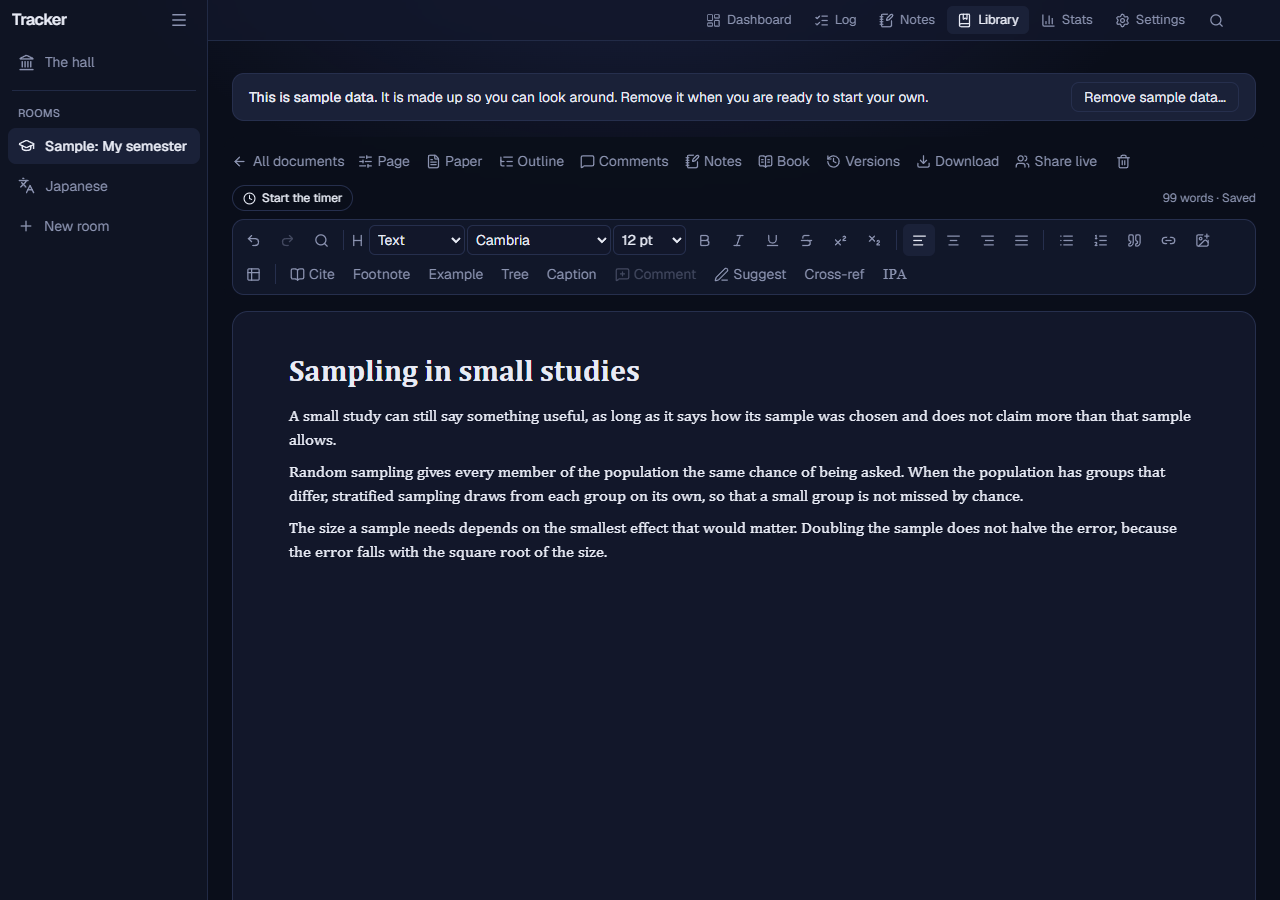
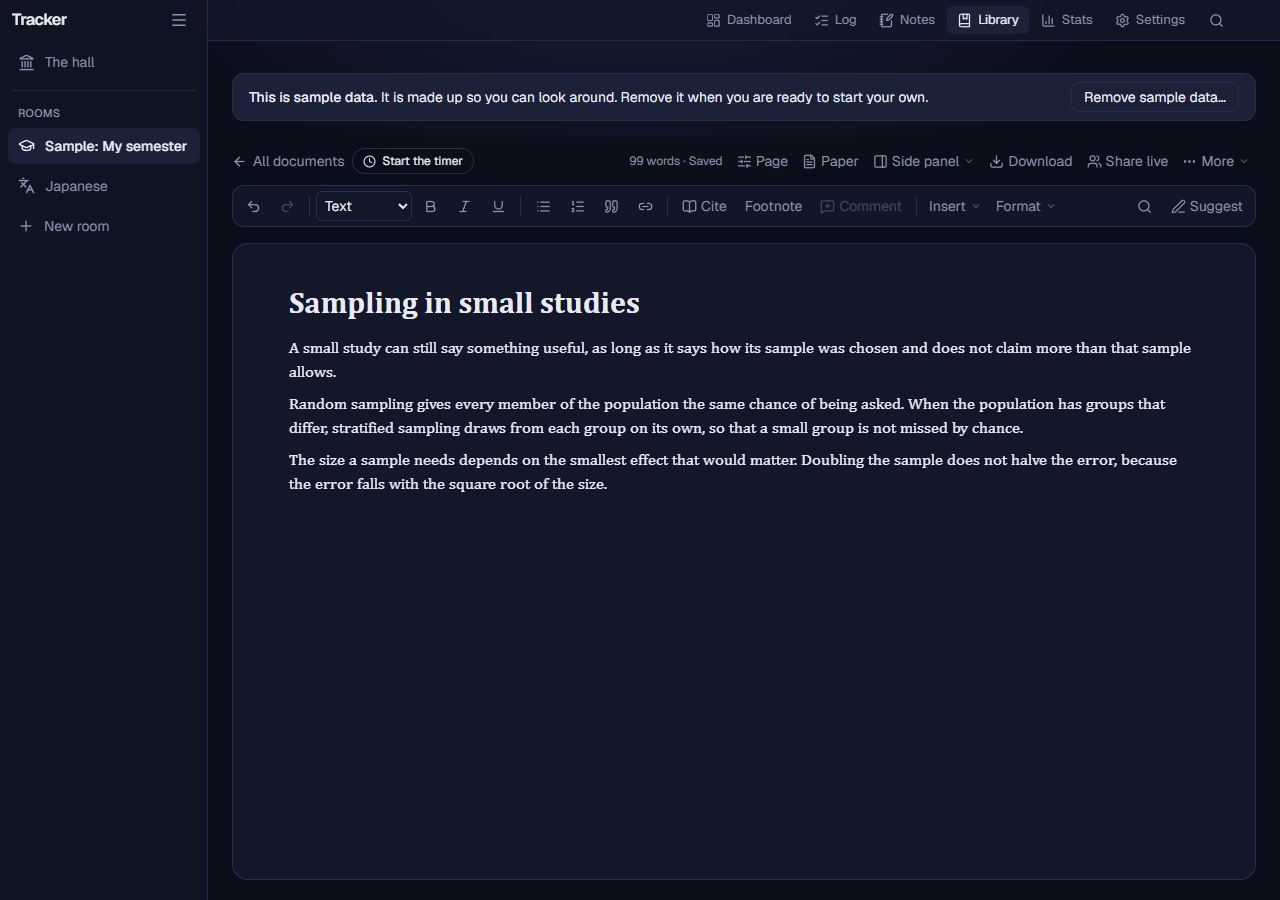
Update the site

diff --git a/docs/manual.html b/docs/manual.html
@@ -23,7 +23,7 @@
   </header>
 
   <h1>The full user manual</h1>
-  <p class="lead">Everything Tracker does, part by part. New here? Start with <a href="guide.html">Getting started in ten minutes</a>. This manual describes version 0.41.0; later versions may add things, and App settings, About lists what changed.</p>
+  <p class="lead">Everything Tracker does, part by part. New here? Start with <a href="guide.html">Getting started in ten minutes</a>. This manual describes version 0.42.0; later versions may add things, and App settings, About lists what changed.</p>
 
   <div class="layout">
     <nav class="toc" aria-label="Contents">
@@ -116,7 +116,7 @@
           <li><strong>I already have a copy of my data.</strong> Opens the restore and import options, for a copy or export from another computer (see <a href="#data">Backups, exports, moving</a>).</li>
         </ul>
         <p>Your first room (your own or the sample) opens with a <strong>short tour</strong>: four cards on rooms and the timer, notes and the graph, books and the reader, and Writing. <em>Next</em> and <em>Back</em> go through it, <em>Skip</em> or <kbd>Esc</kbd> closes it, and it is not shown again; App settings, About has <em>take the short tour again</em>.</p>
-        <p><strong>More rooms:</strong> press <strong>New room</strong> at the bottom of the sidebar. <strong>Changing one:</strong> its own Settings, <em>This room</em>, lets you change its <strong>symbol</strong> (an icon chosen from a set, which also shows in the sidebar and on the hall&rsquo;s Home) and name, what each part is called, its daily goal, and its order in the sidebar. <strong>Deleting one:</strong> <em>Delete this room</em> in the same place. Tracker shows what will be removed (sessions, courses, activities, notes and books), and if the room holds any sessions, notes or books it asks you to type the room&rsquo;s name before <em>Delete permanently</em> works. A copy of your data is saved first (&ldquo;Before a delete&rdquo; in the list of saved copies).</p>
+        <p><strong>More rooms:</strong> press <strong>New room</strong> at the bottom of the sidebar. <strong>Changing one:</strong> its own Settings, <em>This room</em>, lets you change its <strong>symbol</strong> (an icon chosen from a set, which also shows in the sidebar and on the hall&rsquo;s Home) and name, what each part is called, its daily goal, and its order in the sidebar. <strong>Closing one</strong> you are done with (last term&rsquo;s): <em>Close this room</em> in the same place. It leaves the sidebar&rsquo;s rooms for a <em>Closed rooms</em> fold under them and has no door on the hall&rsquo;s Home; nothing in it is deleted, its time stays in Stats and your streak, and it is not offered as a place to move things to. Tick <em>Put its books and documents on a shelf of the hall</em> to find them from the hall too, on a shelf named after the room. A closed room says so at the top of its pages; <em>Open it again</em> in its settings brings it back. <strong>Deleting one:</strong> <em>Delete this room</em> in the same place. Tracker shows what will be removed (sessions, courses, activities, notes and books), and if the room holds any sessions, notes or books it asks you to type the room&rsquo;s name before <em>Delete permanently</em> works. A copy of your data is saved first (&ldquo;Before a delete&rdquo; in the list of saved copies).</p>
 
         <h2 id="courses">4. Courses and activities</h2>
         <p>Both are managed in the room&rsquo;s own <strong>Settings</strong>, in the lists at the top. You can add, rename, recolour and delete them, and drag the grip (or focus it and use the arrow keys) to put them in the order you like.</p>
@@ -185,7 +185,7 @@
         <h2 id="hall">9. The hall</h2>
         <p>Think of Tracker as a library. <strong>The hall</strong> is its main hall, the first item in the sidebar, where you study in general: books, writing and notes of any kind, that belong to no course. The <strong>rooms</strong> under it are study rooms, each for one thing you study. The hall has these pages along the top:</p>
         <ul>
-          <li><strong>Home</strong>, where you start. <em>Continue</em> lists the books you are reading and the documents you wrote in last, in the hall or in any room, each saying where it is; one click opens it where you left off. <em>Today</em> says how many flashcards are due in each room and which deadlines are coming in the next two weeks. <em>Rooms</em> has a door for each room, with its time today and this week, its cards due and its nearest deadline, and <em>New room</em>. <em>In the hall</em> counts the hall&rsquo;s own books, writing and notes.</li>
+          <li><strong>Home</strong>, where you start. <em>On the desk</em> shows the books you are reading as covers, with a line of how far you are; one click opens a book where you left off. Beside it are the documents you wrote in last, each saying where it is. <em>Today</em> lists the flashcards due in each room, every deadline of the next two weeks across your rooms (a course&rsquo;s, or a document&rsquo;s due day: each opens the course or the document&rsquo;s page) and your reading plans (&ldquo;6 pages a day to finish by 18 Nov&rdquo;), or says it is a quiet day when there is none. <em>Rooms</em> has a door for each room, with its time today and this week, its cards due and its nearest deadline (and <em>Timer on</em> while its timer runs), and <em>New room</em>; a line under them links to your closed rooms. <em>In the hall</em> counts the hall&rsquo;s own books, writing and notes.</li>
           <li id="hall-books"><strong>Books</strong>, the hall&rsquo;s shelves: the books you keep in the hall, and every room&rsquo;s books under <em>In rooms</em> (see <a href="#archive">The hall&rsquo;s books</a>).</li>
           <li><strong>Writing</strong>: documents that belong to no room (free writing, an essay, a journal, a draft that has no course yet), in the same editor as a room&rsquo;s (see <a href="#writing">Writing</a>), citing any book on the hall&rsquo;s shelves (the rooms&rsquo; too), and under them, <em>In rooms</em>, every room&rsquo;s documents, room by room, so all your writing can be found in one place.</li>
           <li><strong>Notes</strong>: notes that belong to no room, with cards, the graph and links between them as in a room (a note in the hall and a note in a room do not link to each other). The hall has no flashcards: those are a room&rsquo;s.</li>
@@ -287,7 +287,7 @@
 
         <h2 id="library">11. The Library: books</h2>
         <p>Each room&rsquo;s <strong>Library</strong> tab has two parts: <strong>Books</strong>, described here, and <a href="#writing">Writing</a>. The hall&rsquo;s <strong>Books</strong> has every book of every room, and books you keep in the hall (see <a href="#archive">The hall&rsquo;s books</a> below).</p>
-        <figure class="shot"><a class="zoom" href="img/writing.png"><img src="img/writing.png" width="1280" height="900" alt="A document in Writing: its title Sampling in small studies and three paragraphs, with the toolbar above for headings, fonts, lists, quotations, Cite, Footnote, Example and IPA." loading="lazy"></a><figcaption>A document in Writing.</figcaption></figure>
+        <figure class="shot"><a class="zoom" href="img/writing.png"><img src="img/writing.png" width="1280" height="900" alt="A document in Writing: its title Sampling in small studies and three paragraphs, with one row of buttons above it (Page, Paper, Side panel, Download, Share live, More) and one toolbar row (the text style, bold, italic, underline, lists, quotation, link, Cite, Footnote, Comment, Insert and Format)." loading="lazy"></a><figcaption>A document in Writing.</figcaption></figure>
         <figure class="shot"><a class="zoom" href="img/library.png"><img src="img/library.png" width="1280" height="900" alt="The Library as a shelf: the shelves and a smart shelf beside it, Continue reading at the top, then the books as covers grouped by status, each with its title, authors and course." loading="lazy"></a><figcaption>The Library.</figcaption></figure>
         <h3>Adding a text</h3>
         <p>Press <strong>Add</strong>. In the box, type:</p>
@@ -410,16 +410,19 @@
           <li><strong>Shelves</strong>: the same shelves as the Library&rsquo;s, and smart shelves for documents (see <a href="#folders">Shelves</a>). Drag a document onto a shelf, or put it on one on its page. The list shows each document&rsquo;s words, when it last changed, its course, its due day and its shelves; the pencil beside its title opens it in the editor.</li>
           <li id="document-page"><strong>A document&rsquo;s own page</strong> (click its title): how many words it has and a line of how they grew (from its kept versions), its due day, the books it cites (each opening its own page), the time written on it and its sessions, its shelves and its versions, with <em>Open in the editor</em>, the move button and <em>Put in the bin</em>.</li>
           <li><strong>Start the timer</strong> in a document times its writing: it starts with the document&rsquo;s course and a writing activity, has <em>Started earlier?</em>, and the time spent shows next to it (&ldquo;3h 20m writing&rdquo;). The sessions are in the Log, with a link back to the document.</li>
-          <li>The bin button in a document moves it to the <strong>Bin</strong> (it asks first). In the Bin, <strong>Take out</strong> brings it back and <strong>Delete for good</strong> deletes it and its earlier versions, after asking.</li>
+          <li><em>More</em>, <em>Move to the bin</em> in a document moves it to the <strong>Bin</strong> (it asks first). In the Bin, <strong>Take out</strong> brings it back and <strong>Delete for good</strong> deletes it and its earlier versions, after asking.</li>
         </ul>
         <h3>Writing</h3>
         <ul>
-          <li>The buttons above the document (<em>Page</em>, <em>Paper</em>, <em>Outline</em>, <em>Comments</em>, <em>Notes</em>, <em>Book</em>, <em>Versions</em>, <em>Download</em>) and the toolbar stay on screen together while the document scrolls (on a phone they scroll away with it).</li>
-          <li>The toolbar: undo and redo, the text style (<em>Text</em>; <em>Title</em> and <em>Subtitle</em>, large words for the head of a paper, a chapter or a title page that are not headings, so they are not numbered and not in the outline or the table of contents, and Enter after one goes on in ordinary text; or <em>Heading 1</em> to <em>6</em>), the font and text size of the selected words (the first choice is the document's own), bold, italic, underline, strikethrough, superscript and subscript, lining up (left, centre, right, or justified with both edges straight), bulleted and numbered lists, quotation, link, picture and table (with buttons to add and remove rows and columns while you are in it).</li>
+          <li>Above the document is one row: <em>All documents</em>, the timer, the word count, and <em>Page</em>, <em>Paper</em>, <em>Side panel</em> (<em>Outline</em>, <em>Comments</em>, <em>Notes</em>, <em>Book</em>, <em>Versions</em>, one at a time beside the document), <em>Download</em>, <em>Share live</em> and <em>More</em> (<em>Focus</em> and <em>Move to the bin</em>). It stays on screen with the toolbar while the document scrolls; on a phone only the toolbar does, as one row that scrolls sideways, and its menus open at the foot of the screen.</li>
+          <li>The toolbar has what is used all the time: undo and redo, the text style (<em>Text</em>; <em>Title</em> and <em>Subtitle</em>, large words for the head of a paper, a chapter or a title page that are not headings, so they are not numbered and not in the outline or the table of contents, and Enter after one goes on in ordinary text; or <em>Heading 1</em> to <em>6</em>), bold, italic, underline, bulleted and numbered lists, quotation, link, <em>Cite</em>, <em>Footnote</em> and <em>Comment</em>, then <em>Find</em> and <em>Suggest</em>. <strong>Insert</strong> has a picture, a table (with buttons to add and remove rows and columns while you are in it), a page break, a table of contents, table and figure captions and their lists, and <em>Cross-ref</em>; and, when the document has <em>Tools for linguistics</em> on, <em>Example</em>, <em>Tree</em> and <em>IPA</em>. <strong>Format</strong> has the font and text size of the selected words (the first choice is the document&rsquo;s own), strikethrough, superscript and subscript, and lining up (left, centre, right, or justified with both edges straight).</li>
+          <li>Select words and a small bar comes up over them: bold, italic, underline, a link, a comment and <em>Cite</em>.</li>
+          <li>Type <kbd>/</kbd> at the start of a line (or after a space) for a menu of what can go in: a heading, a list, a quotation, a citation, a footnote, a table, a picture, a page break, a table of contents, a caption, a cross-reference, an example or a tree. Type a few letters to narrow it (<kbd>/he</kbd> for the headings), the arrows to choose, <kbd>Enter</kbd> to put it in; <kbd>Esc</kbd> or a space leaves the <kbd>/</kbd> as it is.</li>
+          <li><strong>Focus</strong> (under <em>More</em>, or <kbd>Ctrl</kbd>+<kbd>Shift</kbd>+<kbd>F</kbd>) leaves only the document: the sidebar, the top bar and the notes above the page are hidden until you press <kbd>Esc</kbd> or <em>Leave focus</em>.</li>
           <li><kbd>Ctrl</kbd>+<kbd>Enter</kbd> (<kbd>Cmd</kbd>+<kbd>Enter</kbd> on a Mac) puts a <strong>page break</strong> where the cursor is: what follows starts a new page in the paper view, the PDF and every download. It shows as a dashed line; select it and delete it like any block. The words on the line are also a choice of what the page numbers do from there: <em>numbers start again at 1</em> (the pages before it are then numbered i, ii, iii, as the title page and the contents of a thesis usually are, or 1, 2, 3 if you choose so under <em>Page</em>; a Word file brings its own choice), <em>numbers start again, none on this page</em>, or <em>no number on this page</em> (a chapter&rsquo;s first page). The table of contents counts a page without a number all the same. Word, OpenDocument and LaTeX files follow it.</li>
           <li><kbd>Tab</kbd> moves a paragraph&rsquo;s first line in (1.27 cm, as in Word), and the paragraphs you start after it with <kbd>Enter</kbd> are moved in too; <kbd>Shift</kbd>+<kbd>Tab</kbd>, or <kbd>Backspace</kbd> at the start of the paragraph, takes it out. In a list, <kbd>Tab</kbd> moves the item one level deeper; in a table, to the next cell. The PDF, Word and OpenDocument files keep it. Since <kbd>Tab</kbd> stays in the text, <kbd>Esc</kbd> leaves it for the toolbar.</li>
-          <li><strong>IPA</strong> opens the IPA symbols: consonants, vowels, length, stress and tone, and the diacritics (click a diacritic after the letter it goes on).</li>
-          <li><strong>Page</strong> sets the whole document out: its citation style and course, its font, text size, line spacing (single, 1.15, 1.5, double, or any number), the space after paragraphs, the page margins in centimetres, <em>Page numbers</em> (top or bottom, left, centre or right, and if you like none on the first page; and, when a page break starts the numbers again at 1, whether the pages before it are numbered i, ii, iii or 1, 2, 3), <em>Print the title above the text</em> (off for a paper with its own title page: the title is then only the document&rsquo;s name, written above the pages in the paper view and not on the pages, the PDF or the downloads), <em>A title page in the middle</em> (what comes before the first page break sits halfway down the first page), <em>Number the headings</em> (Heading 1 is 1., 2., a Heading 2 under it 1.1, 1.2, a Heading 3 1.1.1, down to Heading 6) and a <em>Word limit</em>: with one, the word count under the text reads &ldquo;412 / 500 words&rdquo;, turns amber near the limit and red past it (hover over it for how many are left or over). The PDF, Word and OpenDocument files follow them. A new document starts with the settings of the last one you wrote; an imported Word file has its own (its page numbers, whether its headings are numbered, its title page), never the last document&rsquo;s. A font that is not on this computer says so; Word or LibreOffice on another computer use their own in its place.</li>
+          <li><strong>IPA</strong> (under <em>Insert</em>) opens the IPA symbols: consonants, vowels, length, stress and tone, and the diacritics (click a diacritic after the letter it goes on).</li>
+          <li><strong>Page</strong> sets the whole document out: its citation style and course, its font, text size, line spacing (single, 1.15, 1.5, double, or any number), the space after paragraphs, the page margins in centimetres, <em>Page numbers</em> (top or bottom, left, centre or right, and if you like none on the first page; and, when a page break starts the numbers again at 1, whether the pages before it are numbered i, ii, iii or 1, 2, 3), <em>Print the title above the text</em> (off for a paper with its own title page: the title is then only the document&rsquo;s name, written above the pages in the paper view and not on the pages, the PDF or the downloads), <em>A title page in the middle</em> (what comes before the first page break sits halfway down the first page), <em>Number the headings</em> (Heading 1 is 1., 2., a Heading 2 under it 1.1, 1.2, a Heading 3 1.1.1, down to Heading 6; each chapter&rsquo;s sections count from 1 again, and a Heading 3 straight under a Heading 1 is 3.0.1, as in Word), <em>Tools for linguistics</em> (examples, trees and IPA in <em>Insert</em> and the <kbd>/</kbd> menu; off for a plain essay, which changes nothing in the text) and a <em>Word limit</em>: with one, the word count under the text reads &ldquo;412 / 500 words&rdquo;, turns amber near the limit and red past it (hover over it for how many are left or over). The PDF, Word and OpenDocument files follow them. A new document starts with the settings of the last one you wrote; an imported Word file has its own (its page numbers, whether its headings are numbered, its title page), never the last document&rsquo;s. A font that is not on this computer says so; Word or LibreOffice on another computer use their own in its place.</li>
           <li><strong>Paper</strong> shows the document on white A4 pages with its margins, as it prints, so you see where each page ends: a paragraph goes on at the top of the next page, a long table goes on row by row, the footnotes are at the foot of their page and the page numbers in the margin. Click a footnote at the foot of its page to write in it there, as in Word (<kbd>Ctrl</kbd>+<kbd>I</kbd>, <kbd>Ctrl</kbd>+<kbd>B</kbd> and <kbd>Ctrl</kbd>+<kbd>U</kbd> work in it; <kbd>Enter</kbd> or <kbd>Esc</kbd> leaves it, and one Undo takes the change back). The pages are drawn smaller when the window is narrow. Press it again for one long column. The choice is this computer's, not the document's.</li>
           <li><strong>Book</strong> quotes a book straight from its own PDF or EPUB, without a note first: choose a book of your Library that has its file, find words in it (or go to a page with the arrows or by its number), select words on the page shown, and press <em>Quote in the text</em> (in quotation marks) or <em>As a block quotation</em>. They go where the cursor is, with the citation of that page. For a PDF, <em>Show the PDF beside the document</em> shows the book itself, page by page, next to your document, with your highlights: select words on its page and choose <em>Quote in the text</em> or <em>As a block quotation</em>; <em>Highlight too</em> also keeps the quoted words as a highlight in the book (it stays on until you turn it off). <em>Text view</em> goes back to the panel. <strong>Open in its own window</strong> (on the PDF&rsquo;s bar, and at the top of the panel) opens the book in the reader in a window of its own, for a second screen.</li>
           <li><strong>Find</strong> (the magnifying glass, or <kbd>Ctrl</kbd>+<kbd>F</kbd>) finds words in the document: every place is marked, the one you are at more strongly, and the bar says which of how many it is. <kbd>Enter</kbd> goes to the next place and <kbd>Shift</kbd>+<kbd>Enter</kbd> to the one before. <em>Match case</em> tells capitals apart, and <em>Whole word</em> finds &ldquo;tone&rdquo; but not &ldquo;tones&rdquo;. <kbd>Ctrl</kbd>+<kbd>H</kbd> (<kbd>Cmd</kbd>+<kbd>Shift</kbd>+<kbd>H</kbd> on a Mac) adds <em>Replace with</em>: <em>Replace</em> changes the place you are at and goes on, <em>Replace all</em> changes every place at once, and one Undo puts them all back. <kbd>Esc</kbd> closes the bar and leaves the place selected in the text. The words of footnotes and examples, kept in their own forms, are not searched.</li>

diff --git a/docs/index.html b/docs/index.html
@@ -150,7 +150,7 @@ footer p { margin: 0 0 8px; }
         <figure class="shot"><a class="zoom" href="img/graph.png"><img loading="lazy" src="img/graph.png" width="1280" height="900" alt="The notes graph: notes, courses and books drawn as coloured dots and shapes joined by lines, with labels such as Sampling, Hypotheses and p-values, and dashed lines from notes to the notes they are under."></a><figcaption>The notes graph shows how your notes, courses and books connect.</figcaption></figure>
         <figure class="shot"><a class="zoom" href="img/library.png"><img loading="lazy" src="img/library.png" width="1280" height="900" alt="The library: two books with reading progress, pages per hour, an estimate of the time left and a field for the page you are on."></a><figcaption>The library tracks what you read, how fast, and how long it will take.</figcaption></figure>
         <figure class="shot"><a class="zoom" href="img/reader.png"><img loading="lazy" src="img/reader.png" width="1280" height="900" alt="The reader: a PDF page with its first two lines highlighted in yellow, and the Notes panel beside it listing the highlight and the notes about the book."></a><figcaption>Read your PDFs and EPUBs in Tracker, with highlights and notes beside the page.</figcaption></figure>
-        <figure class="shot"><a class="zoom" href="img/writing.png"><img loading="lazy" src="img/writing.png" width="1280" height="900" alt="A document in Writing: a title and three paragraphs under a toolbar with headings, fonts, lists, Cite, Footnote, Example and IPA."></a><figcaption>Write essays and chapters with citations from your library.</figcaption></figure>
+        <figure class="shot"><a class="zoom" href="img/writing.png"><img loading="lazy" src="img/writing.png" width="1280" height="900" alt="A document in Writing: a title and three paragraphs under one row of buttons and one toolbar row with the text style, lists, Cite, Footnote, Comment, Insert and Format."></a><figcaption>Write essays and chapters with citations from your library.</figcaption></figure>
         <figure class="shot"><a class="zoom" href="img/stats.png"><img loading="lazy" src="img/stats.png" width="1280" height="900" alt="The stats page: a bar chart of daily study time over 30 days split by course and coloured by activity, above a comparison of this week with last week."></a><figcaption>Stats: where the time went, and how this week compares.</figcaption></figure>
         <figure class="shot"><a class="zoom" href="img/overview.png"><img loading="lazy" src="img/overview.png" width="1280" height="900" alt="The overview page that adds up two rooms: totals for today, this week and all time, a day streak, a daily chart and a split of time by room."></a><figcaption>The overview adds up all your rooms, for example a language and a degree.</figcaption></figure>
         <figure class="shot"><a class="zoom" href="img/settings-data.png"><img loading="lazy" src="img/settings-data.png" width="1280" height="900" alt="The Data and backups part of settings: three download buttons, Back up now and Import from a file buttons and the list of saved copies, each with a Restore button."></a><figcaption>A copy is saved every day. Put any of them back, or take everything with you.</figcaption></figure>
